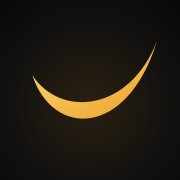
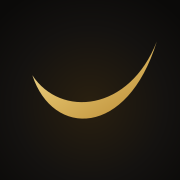
Use a metallic gold for the accent, buttons, and crescent

Changed region(s): [[0.25, 0.3056, 0.8611, 0.6667]]

diff --git a/app/globals.css b/app/globals.css
@@ -5,21 +5,21 @@
   色は意味のある所だけに使う(決まった=琥珀、行ける=緑)。色だけに頼らず、必ず記号か文字を添える
 */
 :root {
-  /* 黒い地に、少し明るい黒のカード。主な色はビールの金色(主ボタン・選んだもの)で、文字は黒 */
+  /* 黒い地に、少し明るい黒のカード。主な色は金色(主ボタン・選んだもの)で、文字は黒 */
   --bg: #0b0a09;
   --surface: #171513;
   --surface-2: #221f1c;
   --text: #f4f1ec;
   --muted: #9a948b;
   --border: #2e2a26;
-  --accent: #f5b83d;
+  --accent: #d9b25c;
   --accent-text: #000000;
-  --accent-strong: #ffc85c;
-  --match: #f5b83d;
-  --match-soft: #2a2112;
-  --match-text: #ffd47e;
-  --ok: #f5b83d;
-  --ok-soft: #2a2112;
+  --accent-strong: #e8c878;
+  --match: #d9b25c;
+  --match-soft: #26200f;
+  --match-text: #ecd08a;
+  --ok: #d9b25c;
+  --ok-soft: #26200f;
   --line: #06c755;
   --line-strong: #4fe08a;
   --danger: #ff7a6b;
@@ -162,3 +162,11 @@ body {
 .tier-yellow { --ts: #3a2d10; --tc: #ffd47e; --tb: #f5b83d; }
 .tier-green { --ts: #143425; --tc: #93e3b2; --tb: #4cc982; }
 .tier-purple { --ts: #2b2148; --tc: #cbb8ff; --tb: #9d7bff; }
+
+/* 金の光沢。主ボタンと三日月に使う(上が明るく、下が深い金) */
+.bg-gold {
+  background: linear-gradient(160deg, #f6e3a1 0%, #dcb862 42%, #b98a33 100%);
+}
+.bg-gold:hover {
+  background: linear-gradient(160deg, #fbecb8 0%, #e6c473 42%, #c69640 100%);
+}

diff --git a/components/SplashIntro.tsx b/components/SplashIntro.tsx
@@ -56,7 +56,14 @@ export function SplashIntro({ onSkip }: { onSkip: () => void }) {
             <Glass side="right" />
           </span>
           <svg viewBox="0 0 240 120" className="intro-moon absolute w-72" aria-hidden>
-            <path className="intro-moon-path" pathLength="1" d={CRESCENT_PATH} fill="var(--accent)" stroke="var(--accent)" strokeWidth="2" strokeLinejoin="round" />
+            <defs>
+              <linearGradient id="intro-gold" x1="0" y1="0" x2="1" y2="1">
+                <stop offset="0" stopColor="#f6e3a1" />
+                <stop offset="0.45" stopColor="#dcb862" />
+                <stop offset="1" stopColor="#b98a33" />
+              </linearGradient>
+            </defs>
+            <path className="intro-moon-path" pathLength="1" d={CRESCENT_PATH} fill="url(#intro-gold)" stroke="#dcb862" strokeWidth="2" strokeLinejoin="round" />
           </svg>
         </span>
 

diff --git a/components/Logo.tsx b/components/Logo.tsx
@@ -6,7 +6,14 @@ export function LogoMark({ size = 28 }: { size?: number }) {
   return (
     <svg width={size} height={size} viewBox="0 0 64 64" aria-hidden className="shrink-0">
       <rect x="1" y="1" width="62" height="62" rx="16" fill="#171513" stroke="color-mix(in srgb, var(--accent) 40%, transparent)" strokeWidth="2" />
-      <path d="M9 27C20 52 45 52 56 14C45 44 22 46 9 27Z" fill="var(--accent)" />
+      <defs>
+        <linearGradient id="logo-gold" x1="0" y1="0" x2="1" y2="1">
+          <stop offset="0" stopColor="#f6e3a1" />
+          <stop offset="0.45" stopColor="#dcb862" />
+          <stop offset="1" stopColor="#b98a33" />
+        </linearGradient>
+      </defs>
+      <path d="M9 27C20 52 45 52 56 14C45 44 22 46 9 27Z" fill="url(#logo-gold)" />
     </svg>
   );
 }

diff --git a/components/ui.ts b/components/ui.ts
@@ -2,7 +2,7 @@
 export const CARD = "mx-4 rounded-3xl border border-border bg-surface";
 export const BUTTON =
   "inline-flex min-h-12 items-center justify-center rounded-2xl px-5 text-base font-bold transition-colors disabled:opacity-50";
-export const BUTTON_PRIMARY = `${BUTTON} min-h-14 bg-accent text-accent-text hover:bg-accent-strong`;
+export const BUTTON_PRIMARY = `${BUTTON} bg-gold min-h-14 text-accent-text shadow-[inset_0_1px_0_rgba(255,255,255,0.35)]`;
 export const BUTTON_SUB = `${BUTTON} border border-border bg-surface-2 text-text hover:border-muted`;
 export const BUTTON_LINE = `${BUTTON} border-2 border-line bg-surface-2 text-line-strong hover:border-line-strong`;
 export const INPUT =
